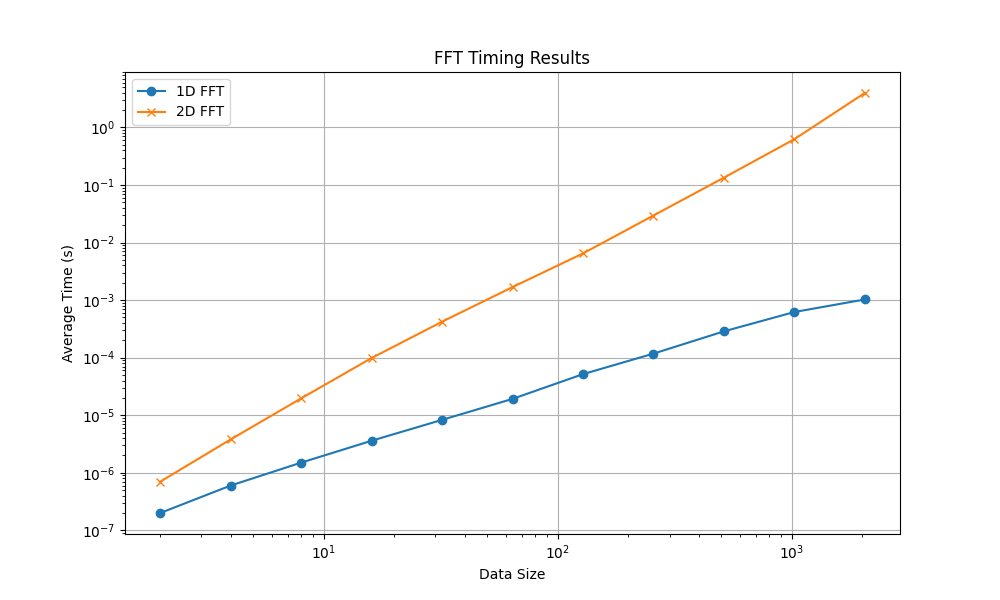
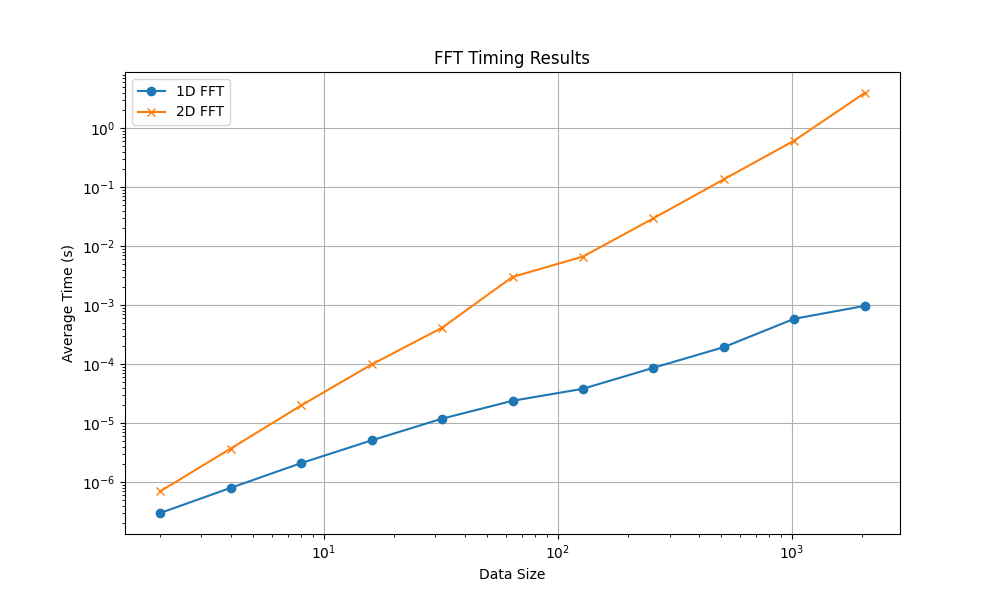
removed seed from random codes

diff --git a/1D FFT/host/fft.cpp b/1D FFT/host/fft.cpp
@@ -346,7 +346,8 @@ void fft_random_data_generator(cmpx_data_t *input_data, cmpx_data_t *output_data
         throw runtime_error("n must be a power of 2");
     }
 
-    mt19937 gen(1703);
+    std::random_device rd;
+    mt19937 gen(rd());
     uniform_real_distribution<> dis(100.0, 1000.0);
 
     // crease random testing data
@@ -380,7 +381,8 @@ void fft2d_random_data_generator_vector(vector<vector<cmpx_data_t>> &input_data,
         throw runtime_error("Data vector length must be a power of 2");
     }
 
-    mt19937 gen(1703);
+    std::random_device rd;
+    mt19937 gen(rd());
     uniform_real_distribution<> dis(0.0, 10.0);
 
     for (int i = 0; i < m; ++i) {
@@ -410,7 +412,8 @@ void fft2d_random_data_generator(cmpx_data_t *input_data, cmpx_data_t *output_da
         throw runtime_error("m must be a power of 2");
     }
 
-    mt19937 gen(1703);
+    std::random_device rd;
+    mt19937 gen(rd());
     uniform_real_distribution<> dis(100.0, 1000.0);
 
     // crease random testing data

diff --git a/FFT SW/src/fft.cpp b/FFT SW/src/fft.cpp
@@ -346,7 +346,8 @@ void fft_random_data_generator(cmpx_data_t *input_data, cmpx_data_t *output_data
         throw runtime_error("n must be a power of 2");
     }
 
-    mt19937 gen(1703);
+    std::random_device rd;
+    mt19937 gen(rd());
     uniform_real_distribution<> dis(100.0, 1000.0);
 
     // crease random testing data
@@ -380,7 +381,8 @@ void fft2d_random_data_generator_vector(vector<vector<cmpx_data_t>> &input_data,
         throw runtime_error("Data vector length must be a power of 2");
     }
 
-    mt19937 gen(1703);
+    std::random_device rd;
+    mt19937 gen(rd());
     uniform_real_distribution<> dis(0.0, 10.0);
 
     for (int i = 0; i < m; ++i) {
@@ -410,7 +412,8 @@ void fft2d_random_data_generator(cmpx_data_t *input_data, cmpx_data_t *output_da
         throw runtime_error("m must be a power of 2");
     }
 
-    mt19937 gen(1703);
+    std::random_device rd;
+    mt19937 gen(rd());
     uniform_real_distribution<> dis(100.0, 1000.0);
 
     // crease random testing data

diff --git a/FFT SW/testing/fft_test.cpp b/FFT SW/testing/fft_test.cpp
@@ -928,5 +928,3 @@ int main(){
     fft2d_test_generator(n,m, tolerance, scale);
 
 }
-
-
